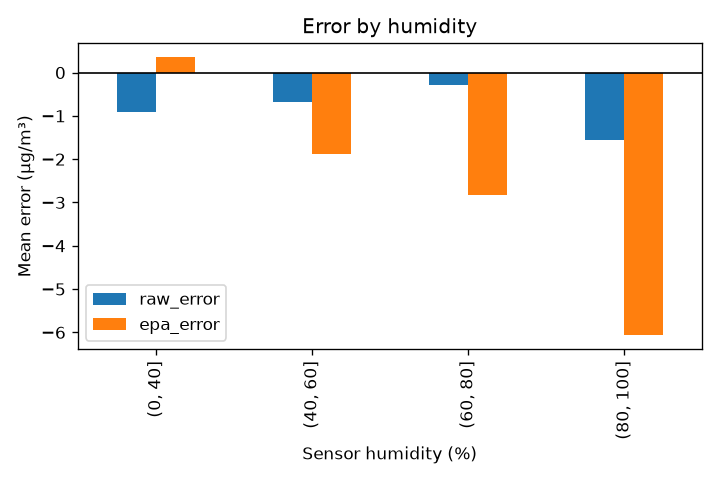
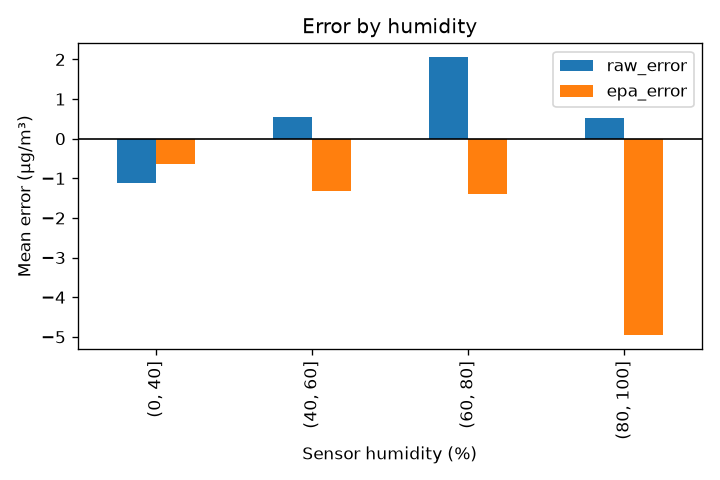
docs(data): update exploration with 3 months of data (#49)

diff --git a/notebooks/01_explore_pairs.py b/notebooks/01_explore_pairs.py
@@ -182,3 +182,27 @@ fig.tight_layout()
 fig.savefig(FIGURES / "error_by_humidity.png", dpi=120)
 plt.close(fig)
 print(f"Figures saved to {FIGURES}/")
+
+# %% [markdown]
+# ## 6. Does the error depend on the pollution level and the season?
+# A correction matters most on smoky days. The bands follow the US AQI breakpoints
+# for PM2.5: good (up to 9), moderate (9 to 35.4), and unhealthy for sensitive
+# groups or worse (above 35.4).
+
+# %%
+clean["raw_abs_error"] = (clean.raw - clean.official).abs()
+clean["epa_abs_error"] = (clean.epa - clean.official).abs()
+clean["level"] = pd.cut(
+    clean.official,
+    bins=[-1, 9, 35.4, 1000],
+    labels=["good (<= 9)", "moderate (9-35)", "unhealthy (> 35)"],
+)
+clean["month"] = clean.time.dt.strftime("%Y-%m")
+for column in ("level", "month"):
+    table = clean.groupby(column, observed=True).agg(
+        hours=("time", "size"),
+        official=("official", "mean"),
+        raw_mae=("raw_abs_error", "mean"),
+        epa_mae=("epa_abs_error", "mean"),
+    )
+    print(table.round(2).to_string())

diff --git a/docs/data-exploration.md b/docs/data-exploration.md
@@ -1,19 +1,20 @@
 # Data exploration: PurpleAir sensors vs official monitors
 
-Issue #33 · 2026-11-04 · Script: `notebooks/01_explore_pairs.py`
+Issues #33 and #35 · updated 2026-11-04 · Script: `notebooks/01_explore_pairs.py`
 
 ## Why this exists
 
-Before building a correction model we need to know what the raw data looks like: how complete it is,
-how many sensors are broken, and how good the existing EPA correction already is. These numbers are
+Before building a correction model we need to know what the data looks like: how complete it is,
+which sensors are broken, and how good the existing EPA correction already is. These numbers are
 the baselines every AirSight model must beat.
 
 ## Data
 
-- 7-day backfill, 2026-10-27 16:00 to 2026-11-03 15:00 UTC (a clean, low-pollution week).
-- 40 PurpleAir sensors within 1 km of 12 AirNow monitors in the San Francisco Bay Area.
-- 6,592 paired sensor-hours. Median sensor coverage 100%; 1 sensor under 75%.
-- 4.1% of hours have no official reading (monitor gaps).
+- 3 months: 2026-08-06 to 2026-11-04 (UTC), loaded by the backfill and kept current by the
+  live job every 3 hours.
+- 41 PurpleAir sensors within 1 km of 12 AirNow monitors in the San Francisco Bay Area.
+- 80,853 paired sensor-hours. Median sensor coverage 100%; 4 sensors under 75%.
+- 5.6% of hours have no official reading to compare against.
 
 Reproduce:
 
@@ -23,64 +24,96 @@ uv run --project backend --group notebooks python notebooks/01_explore_pairs.py
 
 ## Sensor health
 
-| Sensor | Monitor | Problem |
-|---|---|---|
-| 120181 | Concord | Channel A median 4,991.8 µg/m³, channel B always 0 |
-| 162567 | San Jose Jackson St | Channel B up to 5,633.3; 49% of hours disagree, 42% impossible |
-| 195905 | San Jose Jackson St | Channel B median 6,411.9 |
-| 119499 | San Rafael | Channel A about 4,992, channel B 0 |
-| (Knox Ave sensor) | San Jose Knox Ave | Reads 0.1 vs official 6.8, yet passes all filters |
+Each PurpleAir sensor has two laser counters, A and B. We flag an hour when the counters disagree
+(EPA rule: more than 5 µg/m³ AND more than 70% apart), when either reads above 1,000 µg/m³
+(impossible), or when both read exactly zero.
 
-After removing impossible values (> 1,000), stuck zeros, missing channels and A/B disagreement
-(EPA rule: channels differ by more than 5 µg/m³ AND more than 70%),
-**5,055 of 6,592 hours (77%) are trustworthy**.
+| Sensor | Monitor | Problem | Decision |
+|---|---|---|---|
+| 120181 | Concord | A median 4,989.8, B near 0; 61% impossible | Exclude |
+| 162567 | San Jose Jackson St | B up to 5,633; 42% impossible | Exclude |
+| 195905 | San Jose Jackson St | Both counters around 5,000; 100% impossible | Exclude |
+| 119499 | San Rafael | A about 4,992, B 0; 100% impossible | Exclude |
+| 194669 | Oakland West | Both counters spike to about 5,000; 20% impossible | Exclude |
+| 64777 | San Francisco | Rare spikes (A max 1,939) | Keep; flag those hours |
+| 90563 | Vallejo | Rare spikes (max 1,042) | Keep; flag those hours |
+| Knox Ave sensor | San Jose Knox Ave | Reads 0.1 while the monitor reads 8.6; passes every check | Needs a new check (#36) |
+
+**Rule:** a sensor is excluded when more than 10% of its hours are impossible. Otherwise bad
+hours are flagged, not deleted. After all checks, **59,219 of 80,853 hours (73%) are trustworthy**.
 
 ## Raw vs EPA correction
 
 Error = sensor minus official monitor, in µg/m³, on trustworthy hours.
 EPA US-wide correction (Barkjohn et al. 2021): `0.524 * raw - 0.0862 * RH + 5.75`.
 
-| Method | Mean error | MAE | Correlation |
+| Method | Mean error | Mean absolute error | Correlation |
 |---|---|---|---|
-| Raw (average of A and B) | -0.74 | 2.88 | 0.45 |
-| EPA correction | -2.06 | 3.17 | 0.34 |
+| Raw (average of A and B) | +0.53 | 3.65 | 0.34 |
+| EPA correction | -1.57 | 3.21 | 0.35 |
 
-**The EPA correction did worse than raw this week.**
-![raw and EPA vs official](images/exploration/raw_vs_epa.png)
+Over 3 months the EPA correction beats raw overall, but it reads low on average and pushes some
+monitors far below the truth (Berkeley 0.4 vs 6.0 official, Laney 1.5 vs 7.5, Redwood City 1.8
+vs 6.6). Correlation is low for both because most hours sit in a narrow, clean range where
+sensor noise dominates.
 
-### Error by humidity
+![Raw and EPA-corrected readings against the official monitor](images/exploration/raw_vs_epa.png)
 
-| Humidity band | Raw mean error | EPA mean error |
-|---|---|---|
-| Lowest | -0.91 | +0.36 |
-| Low-mid | -0.68 | -1.87 |
-| High-mid | -0.28 | -2.84 |
-| Highest | -1.56 | -6.06 |
+### By pollution level (US AQI bands)
 
-Raw error is roughly flat across humidity. EPA error grows with humidity: at low concentrations the
-`-0.0862 * RH` term subtracts more than the particles contribute, and some monitors end up with
-corrected values near zero or negative (Berkeley -0.6, Redwood City 0.4, Laney 1.0).
-![error by humidity band](images/exploration/error_by_humidity.png)
+| Official PM2.5 | Hours | Raw MAE | EPA MAE |
+|---|---|---|---|
+| Good (up to 9) | 47,745 | 3.23 | **2.51** |
+| Moderate (9 to 35) | 9,679 | **5.48** | 6.38 |
+| Unhealthy for sensitive groups or worse (above 35) | 42 | 43.63 | 35.65 |
+
+EPA helps on clean days and hurts on moderately polluted ones. There were only 42 hours above
+35 µg/m³ and both methods were far off, so we know almost nothing yet about smoky days.
+
+### By humidity
+
+| Sensor humidity | Hours | Raw mean error | EPA mean error |
+|---|---|---|---|
+| Up to 40% | 12,223 | -1.12 | -0.64 |
+| 40 to 60% | 27,765 | +0.54 | -1.33 |
+| 60 to 80% | 13,157 | +2.06 | -1.40 |
+| Above 80% | 6,074 | +0.52 | -4.96 |
+
+Raw readings rise with humidity (particles swell with water), and EPA's single humidity term
+over-corrects in very humid air. A model that learns this relationship should beat both.
+
+![Mean error by humidity band](images/exploration/error_by_humidity.png)
+
+### By month
+
+| Month | Hours | Official mean | Raw MAE | EPA MAE |
+|---|---|---|---|---|
+| 2026-08 | 15,797 | 4.72 | 3.74 | 3.00 |
+| 2026-09 | 19,489 | 6.47 | 3.54 | 3.29 |
+| 2026-10 | 21,665 | 6.44 | 3.71 | 3.26 |
+| 2026-11 (partial) | 2,268 | 5.22 | 3.43 | 3.36 |
+
+Errors are stable month to month, so there is no obvious seasonal drift in this window.
 
 ## Decisions
 
-1. Exclude sensors 120181, 162567, 195905 and 119499 from analysis and training.
-2. Keep the EPA A/B disagreement rule for marking unreliable hours.
-3. Add a "near zero while the monitor is not" check to the data quality checks (#36),
-   prompted by the San Jose Knox Ave sensor.
-4. Keep both raw and EPA as baselines. No method is declared better until we have 3 months of data.
-5. Quality checks will **flag** rows, not delete them, so we can always see what was excluded and why.
+1. Exclude sensors 120181, 162567, 195905, 119499 and 194669 (more than 10% impossible hours).
+2. Keep the EPA A/B disagreement rule; flag bad hours rather than deleting them (#36).
+3. Add a check for sensors that sit near zero while their monitor does not (#36).
+4. **The target for v0.3:** beat the EPA correction's MAE of 3.21 µg/m³ under leave-one-station-out
+   evaluation, without doing worse than raw on moderate days.
+5. Always report results by pollution level, not only overall, so a model can't hide a bad
+   result on polluted days behind many clean ones.
+6. Until we have smoke data, the forecast widens its uncertainty above 35 µg/m³.
 
 ## Limits
 
-- One clean week. Readings stay in a narrow range (about 3 to 9 µg/m³) where noise dominates,
-  which drags correlation down for every method.
-- No smoke or high-pollution events, which is where corrections matter most.
-- Oakland West (1,381 hours) and San Francisco (1,243) have many paired sensors, so they dominate
-  pooled numbers. Leave-one-station-out evaluation (ADR 0001) will control for this.
+- Almost no high-pollution hours (42 above 35 µg/m³). This is the biggest risk for the model.
+- Four monitors (Oakland West, San Francisco, Vallejo, San Rafael) hold most of the paired hours,
+  so pooled numbers lean towards them. Leave-one-station-out evaluation (ADR 0001) controls for this.
+- The sensor's humidity is measured inside its housing and reads lower than outdoor humidity.
 
 ## Next steps
 
-- #34: live ingestion every 3 hours with Celery.
-- #35: full 3-month backfill, then rerun this script and update this doc.
-- #36: data quality flags based on the findings above.
+- #36: turn the checks above into stored data quality flags and a report.
+- Phase 5: train the correction model and compare it with these baselines.
